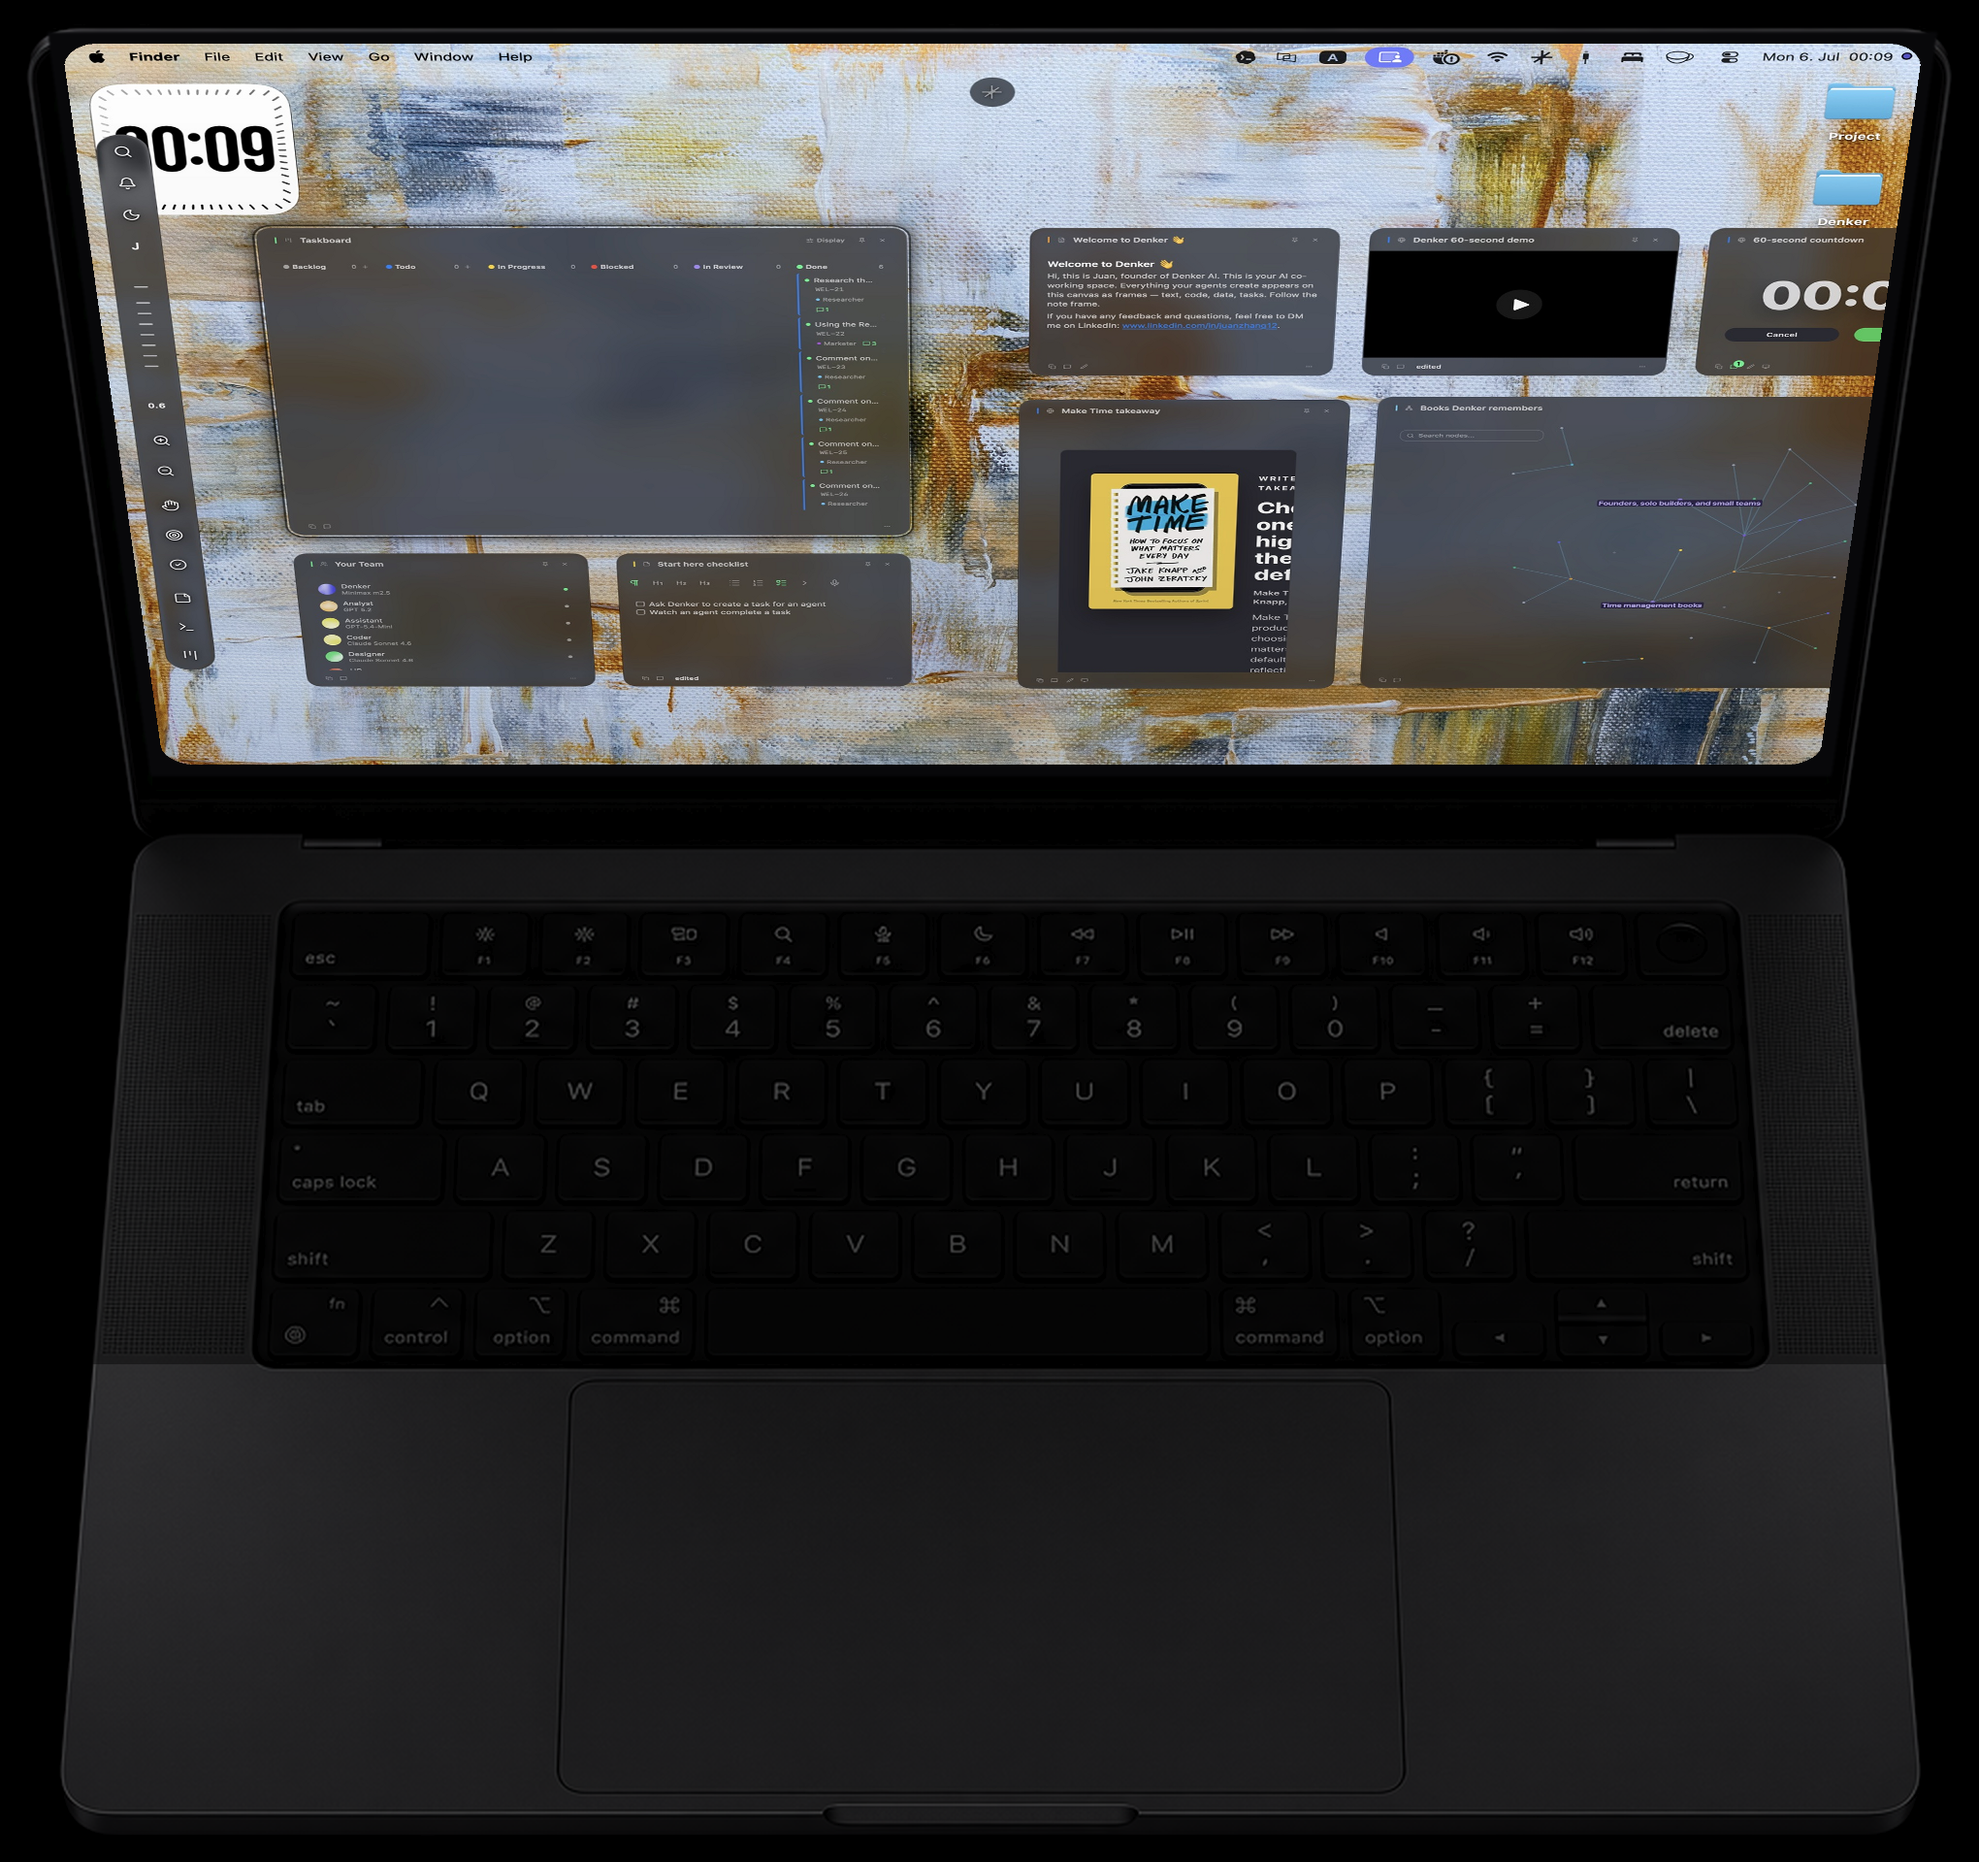
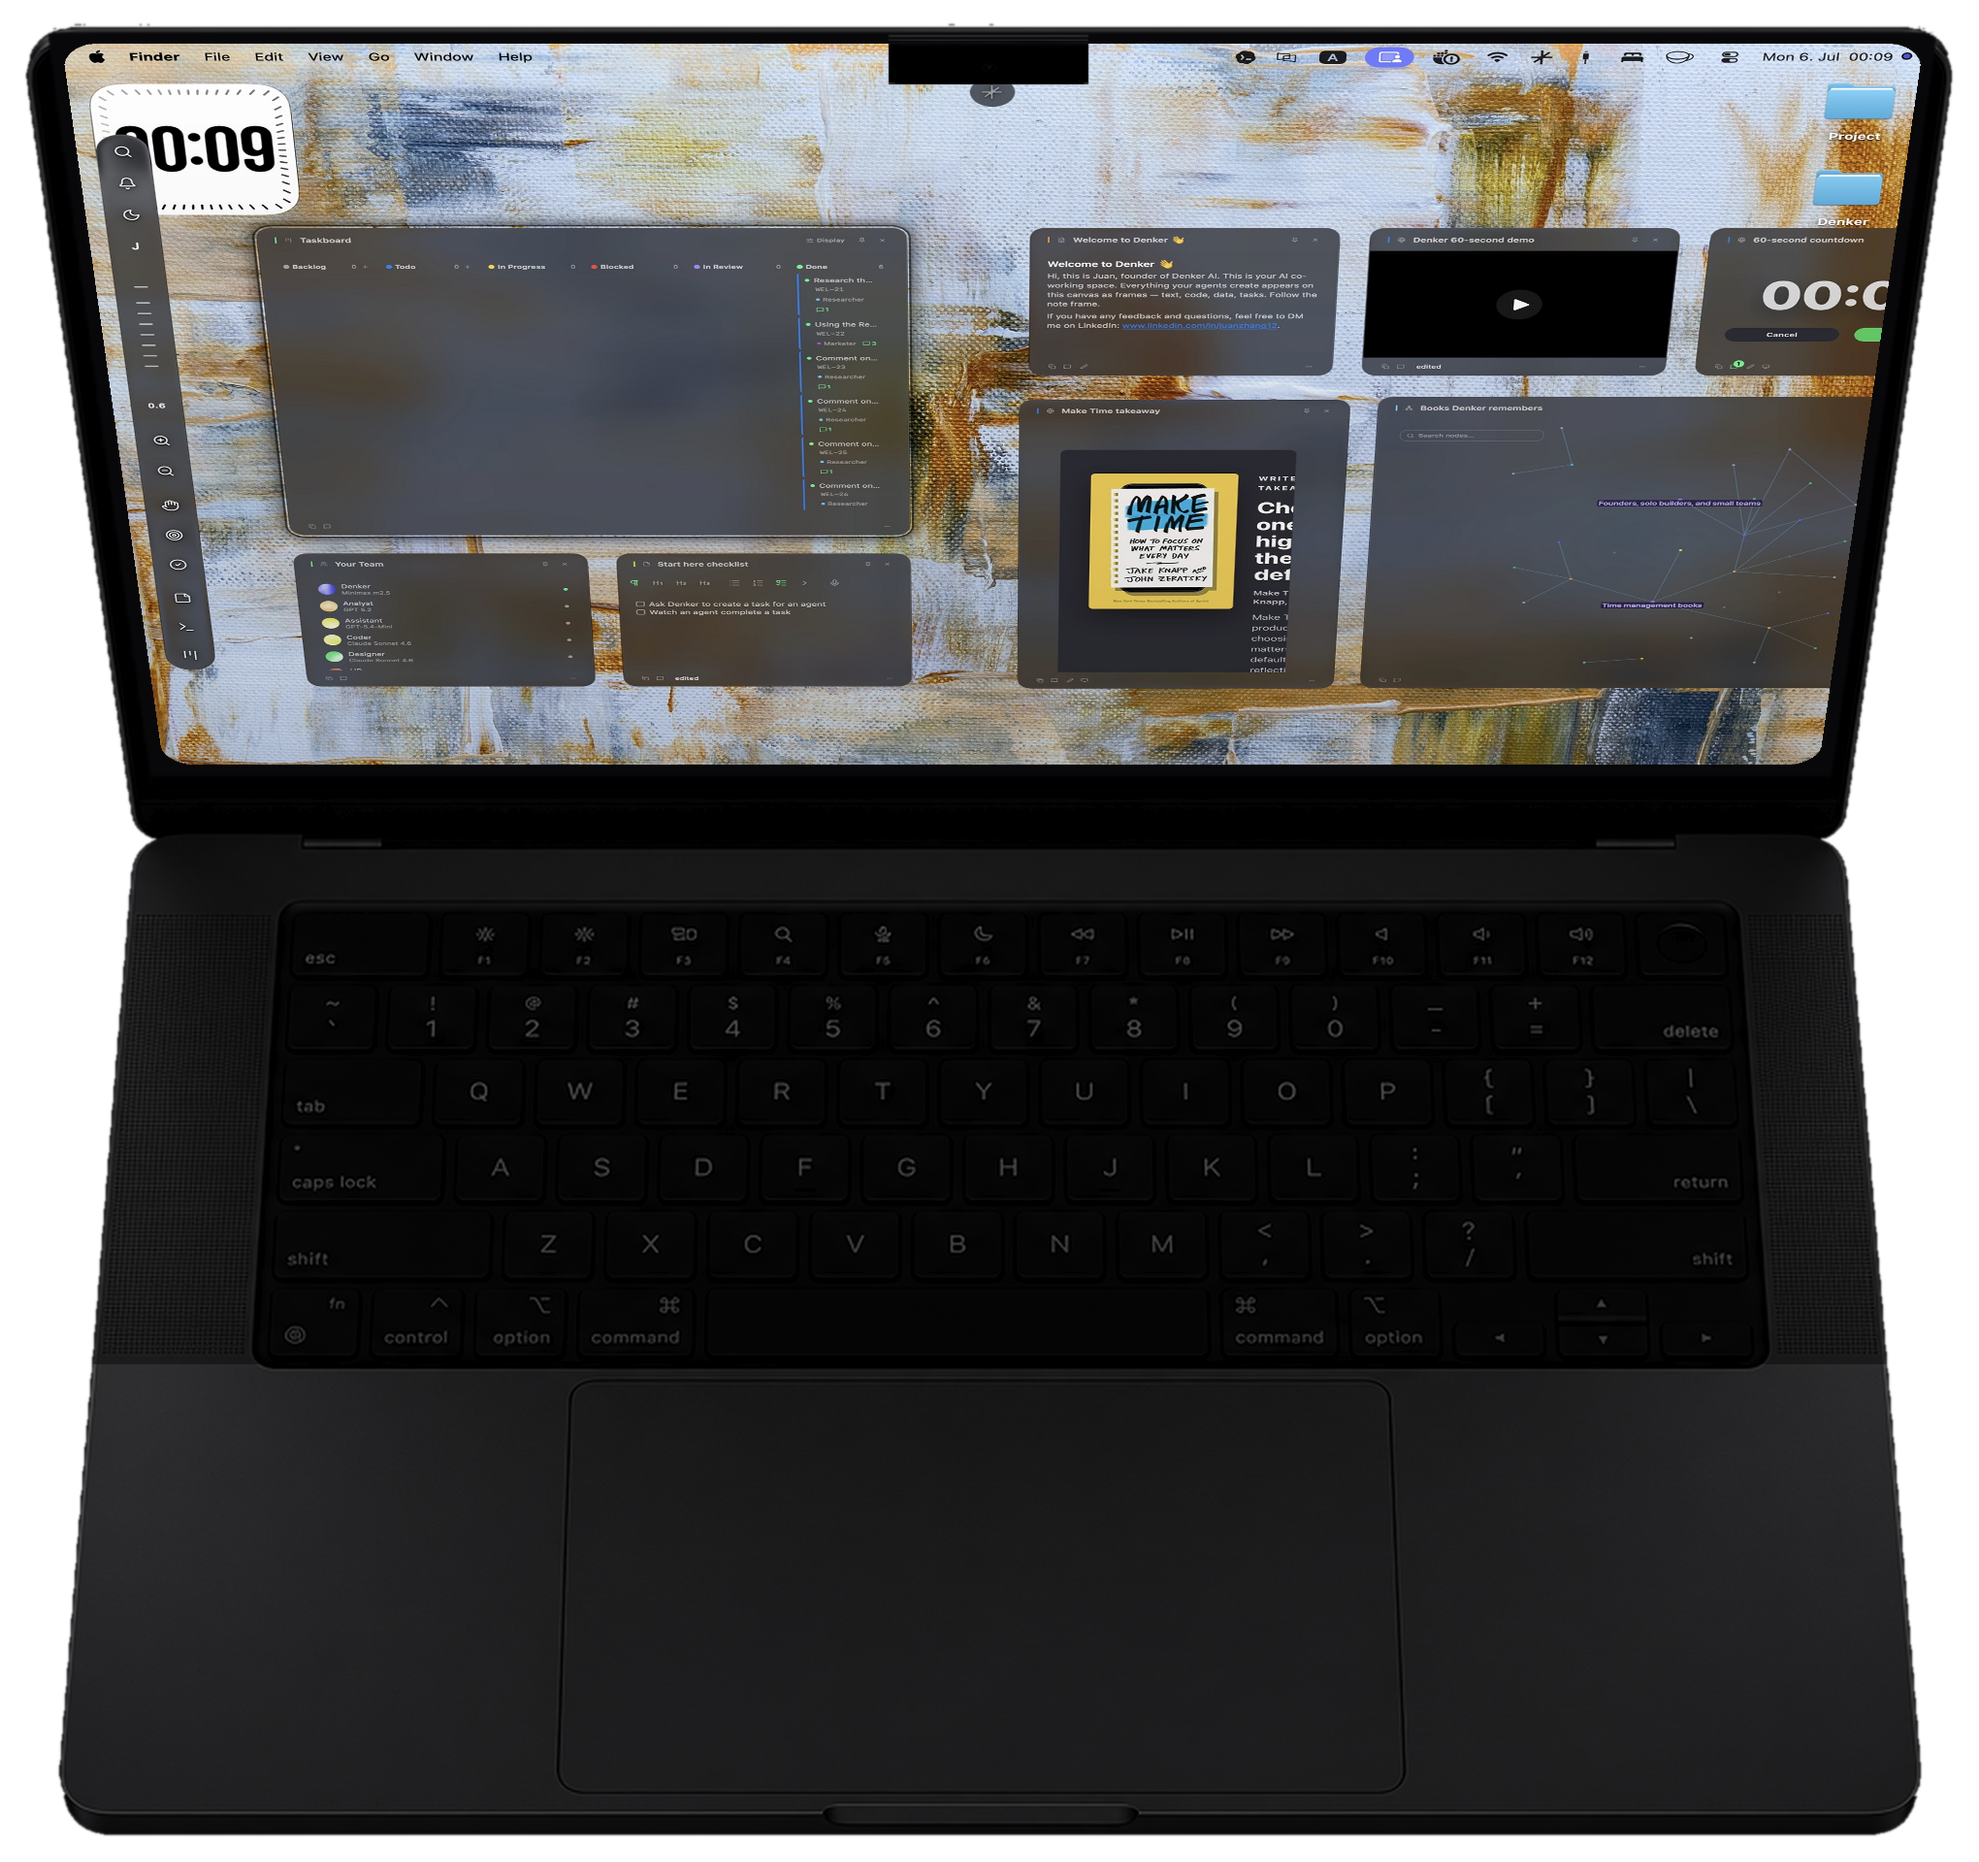
fix: top-down MacBook silhouette crop + notch restoration

Changed region(s): [[0.0, 0.0, 1.0, 1.0]]

diff --git a/scripts/composite-macbook-topdown.py b/scripts/composite-macbook-topdown.py
@@ -1,10 +1,15 @@
 """Rebuild public/images/hero/denker-macbook-topdown.png.
 
-Warps a desktop screenshot (denker-desktop-screenshot.jpg) onto the lid of the
-physical top-down MacBook photo (denker-macbook-physical-tight-opaque.png):
-fits the screen trapezoid from pixel brightness, paints a bezel-black underlay
-over the old baked screen, then perspective-warps the screenshot behind a
-rounded-corner mask with baked-in vertical shading.
+Composites a desktop screenshot onto the lid of the physical top-down MacBook
+photo (denker-macbook-physical-tight-opaque.png):
+1. fits the screen trapezoid from pixel brightness and perspective-warps the
+   screenshot behind a rounded-corner mask (with baked vertical shading), over
+   a bezel-black underlay that hides the old baked screen;
+2. re-pastes the photo's own notch (camera dot included) using its dark
+   pixels only, so no old-wallpaper fringe comes along;
+3. rebuilds a clean silhouette alpha from the intact opaque photo via
+   row-span x column-span intersection of non-black pixels (the shipped
+   "tight" alpha asset has holes in the keyboard - do not use it).
 
 Run: python3 scripts/composite-macbook-topdown.py
 """
@@ -19,8 +24,8 @@ base = Image.open(BASE).convert("RGBA")
 shot = Image.open(SHOT).convert("RGBA")
 W, H = base.size
 g = np.asarray(base.convert("L")).astype(int)
-bright = g > 60
 
+bright = g > 60
 ys, ls, rs = [], [], []
 for y in range(60, 740):
     xs = np.where(bright[y])[0]
@@ -29,13 +34,13 @@ for y in range(60, 740):
 ys, ls, rs = map(np.array, (ys, ls, rs))
 lfit, rfit = np.polyfit(ys, ls, 1), np.polyfit(ys, rs, 1)
 edge = lambda fit, y: fit[0] * y + fit[1]
-
 yo_t, yo_b = 33, 799
 outer = [(edge(lfit, yo_t) - 5, yo_t), (edge(rfit, yo_t) + 5, yo_t),
          (edge(rfit, yo_b) + 5, yo_b), (edge(lfit, yo_b) - 5, yo_b)]
 y_top, y_bot, in_x, in_t, in_b = 38, 794, 8, 7, 6
 quad = [(edge(lfit, y_top) + in_x, y_top + in_t), (edge(rfit, y_top) - in_x, y_top + in_t),
         (edge(rfit, y_bot) - in_x, y_bot - in_b), (edge(lfit, y_bot) + in_x, y_bot - in_b)]
+
 
 def solve_h(dst, src):
     A, B = [], []
@@ -44,15 +49,14 @@ def solve_h(dst, src):
         A.append([0, 0, 0, x, y, 1, -v * x, -v * y]); B.append(v)
     return np.linalg.solve(np.array(A, float), np.array(B, float)).tolist()
 
+
 sw, sh = shot.size
 coeffs = solve_h(quad, [(0, 0), (sw, 0), (sw, sh), (0, sh)])
-
 sarr = np.zeros((sh, sw), dtype=np.uint8)
 for y in range(sh):
     sarr[y, :] = int(30 * (y / sh))
 black = Image.new("RGBA", (sw, sh), (0, 0, 0, 255))
 shot = Image.alpha_composite(shot, Image.merge("RGBA", (*black.split()[:3], Image.fromarray(sarr, "L"))))
-
 warped = shot.transform((W, H), Image.PERSPECTIVE, coeffs, resample=Image.BICUBIC)
 mask_src = Image.new("L", (sw, sh), 0)
 ImageDraw.Draw(mask_src).rounded_rectangle([0, 0, sw - 1, sh - 1], radius=42, fill=255)
@@ -63,5 +67,25 @@ under = Image.new("L", (W, H), 0)
 ImageDraw.Draw(under).polygon(outer, fill=255)
 out.paste(Image.new("RGBA", (W, H), (8, 8, 10, 255)), (0, 0), under.filter(ImageFilter.GaussianBlur(1.2)))
 out.paste(warped, (0, 0), mask)
-out.save(OUT)
+
+NX0, NX1, NY0, NY1 = 916, 1122, 36, 92
+bbox = np.zeros((H, W), dtype=bool)
+bbox[NY0:NY1, NX0:NX1] = True
+notch = (g < 55) & bbox
+out.paste(base, (0, 0), Image.fromarray((notch * 255).astype("uint8"), "L").filter(ImageFilter.GaussianBlur(0.6)))
+
+nz = g > 3
+col_mask = np.zeros_like(nz)
+for x in range(W):
+    col = np.where(nz[:, x])[0]
+    if len(col):
+        col_mask[col.min():col.max() + 1, x] = True
+row_mask = np.zeros_like(nz)
+for y in range(H):
+    row = np.where(nz[y])[0]
+    if len(row):
+        row_mask[y, row.min():row.max() + 1] = True
+sil = Image.fromarray(((col_mask & row_mask) * 255).astype("uint8"), "L").filter(ImageFilter.GaussianBlur(1.0))
+r, gb, b, _ = out.split()
+Image.merge("RGBA", (r, gb, b, sil)).save(OUT)
 print("saved", OUT)
